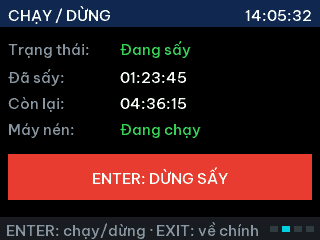
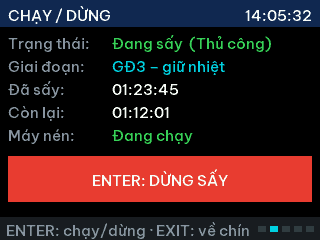
docs/build: hướng dẫn chế độ điều khiển + ảnh màn hình, cập nhật project Keil
- docs/UI.md: 5 trang, mô tả Tự động / Thủ công 5 GĐ, bảo vệ máy nén
- Keil: thêm fan_speed.c, ui_page_fan.c, ui_list.c (bỏ ui_menu_tech.c)
- Build thử arm-none-eabi-gcc: 55.8 KB / 62 KB Flash

Claude-Session: https://claude.ai/code/session_01Q4RsSUfkgXaCjxshzdnzJP

diff --git a/docs/UI.md b/docs/UI.md
@@ -17,20 +17,47 @@ Giao diện dùng font **Be Vietnam Pro** (SIL Open Font License 1.1) chuyển t
 * Keil ARMCC 5: cần option `--no_multibyte_chars` (C/C++ → Misc Controls) – `tools/keil_setup.py` tự thêm.
 * Toàn bộ firmware hiện ~52 KB / 62 KB Flash.
 
-## 4 trang chính – chuyển bằng UP / DOWN
+## 5 trang chính – chuyển bằng UP / DOWN
 
 | Trang | Nội dung | Phím riêng |
 |-------|----------|------------|
-| 1 Chính | Nhiệt độ, độ ẩm thực tế (số lớn) + điểm đặt, chế độ đang dùng, trạng thái, thời gian đã sấy / còn lại, relay | Giữ EXIT 3 s: menu kỹ thuật |
-| 2 Chạy / Dừng | Trạng thái, thời gian sấy, máy nén | ENTER: chạy / dừng |
-| 3 Thời gian sấy | HH:MM (00:00 = không giới hạn), thời gian còn lại | ENTER: chỉnh từng chữ số |
-| 4 Lịch sử lỗi | Lỗi đang có + 6 lỗi gần nhất (ngày giờ, tên lỗi) | ENTER: xoá lỗi đang có · Giữ EXIT 3 s: xoá lịch sử |
+| 1 Chính | Nhiệt độ, độ ẩm (số lớn) + điểm đặt, chế độ sấy, giai đoạn đang chạy, thời gian, relay (MN, QN + cấp, QL) | Giữ EXIT 3 s: menu kỹ thuật |
+| 2 Chạy / Dừng | Trạng thái (Tự động/Thủ công), giai đoạn, đã sấy, còn lại, máy nén | ENTER: chạy / dừng |
+| 3 Thời gian sấy | HH:MM (00:00 = không giới hạn). **Chỉ dùng cho chế độ Tự động**, Thủ công hiện "không áp dụng" | ENTER: chỉnh từng chữ số |
+| 4 Quạt dàn nóng | Chế độ Tự động / Thủ công, bảng 5 giai đoạn + cấp quạt, nhiệt độ bảo vệ, thời gian chờ máy nén | ENTER: danh sách cài đặt |
+| 5 Lịch sử lỗi | Lỗi đang có + 6 lỗi gần nhất (ngày giờ, tên lỗi) | ENTER: xoá lỗi đang có · Giữ EXIT 3 s: xoá lịch sử |
 
 Ở mọi trang: **giữ ENTER 3 s → menu chế độ sấy**, EXIT → về trang chính.
-Header luôn hiện đồng hồ HH:MM:SS; footer hiện gợi ý phím, thông báo và số trang (4 ô vuông).
+Header luôn hiện đồng hồ HH:MM:SS; footer hiện gợi ý phím, thông báo và số trang (5 ô vuông).
 
 ![Trang 1](ui/01_main.png) ![Trang 2](ui/02_run.png)
-![Trang 3](ui/03_timer.png) ![Trang 4](ui/04_faults.png)
+![Trang 3](ui/03_timer.png) ![Trang 4](ui/04_fan.png)
+![Trang 5](ui/05_faults.png)
+
+## Điều khiển quạt dàn nóng & máy nén
+
+**Tự động** – quạt dàn nóng chạy cấp *Tự động: cấp quạt* (mặc định 3):
+1. Quạt chạy trước *GĐ1: quạt chạy trước* giây (mặc định 60 s) rồi bật máy nén.
+2. Máy nén chạy liên tục tới khi độ ẩm ≤ độ ẩm đặt → dừng máy nén.
+3. Sau đó máy nén bật/tắt giữ nhiệt độ đặt, bỏ qua độ ẩm, tới hết *thời gian sấy* (trang 3).
+4. Hết giờ: tắt máy nén, quạt chạy làm mát tới *GĐ5: nhiệt độ dừng* thì kết thúc. Thời gian sấy 00:00 = chạy tới khi bấm dừng.
+
+**Thủ công** – 5 giai đoạn, mỗi giai đoạn chọn cấp quạt riêng; thời gian sấy trang 3 không áp dụng:
+
+| GĐ | Máy nén | Chuyển sang GĐ sau khi |
+|----|---------|------------------------|
+| 1 | quạt chạy trước 60 s, rồi máy nén chạy liên tục | nhiệt độ ≥ nhiệt độ đặt |
+| 2 | giữ nhiệt độ đặt | độ ẩm ≤ độ ẩm đặt |
+| 3 | giữ nhiệt độ đặt | hết *GĐ3: thời gian* (phút) |
+| 4 | giữ nhiệt độ đặt | hết *GĐ4: thời gian* (phút) |
+| 5 | **tắt** | nhiệt độ ≤ *GĐ5: nhiệt độ dừng* → kết thúc chu trình |
+
+Chung cho cả hai chế độ:
+* **Máy nén chờ bật lại** (mặc định 60 s, chỉnh ở trang 4): sau mỗi lần dừng phải chờ đủ mới bật lại.
+* **Nhiệt độ bảo vệ** (mặc định 75 °C, chỉnh ở trang 4): vượt → dừng máy, báo lỗi *Quá nhiệt*.
+* Quạt dàn lạnh chạy suốt chu trình. Quạt dàn nóng 5 cấp: chỉ 1 relay đóng, đổi cấp nghỉ 1 s.
+* Mất cảm biến ẩm: Tự động chuyển sang giữ nhiệt; Thủ công bỏ qua GĐ2 (có cảnh báo).
+* Đổi chế độ khi máy đang chạy: áp dụng từ lần chạy sau.
 
 ## Menu chế độ sấy (giữ ENTER 3 s)
 
